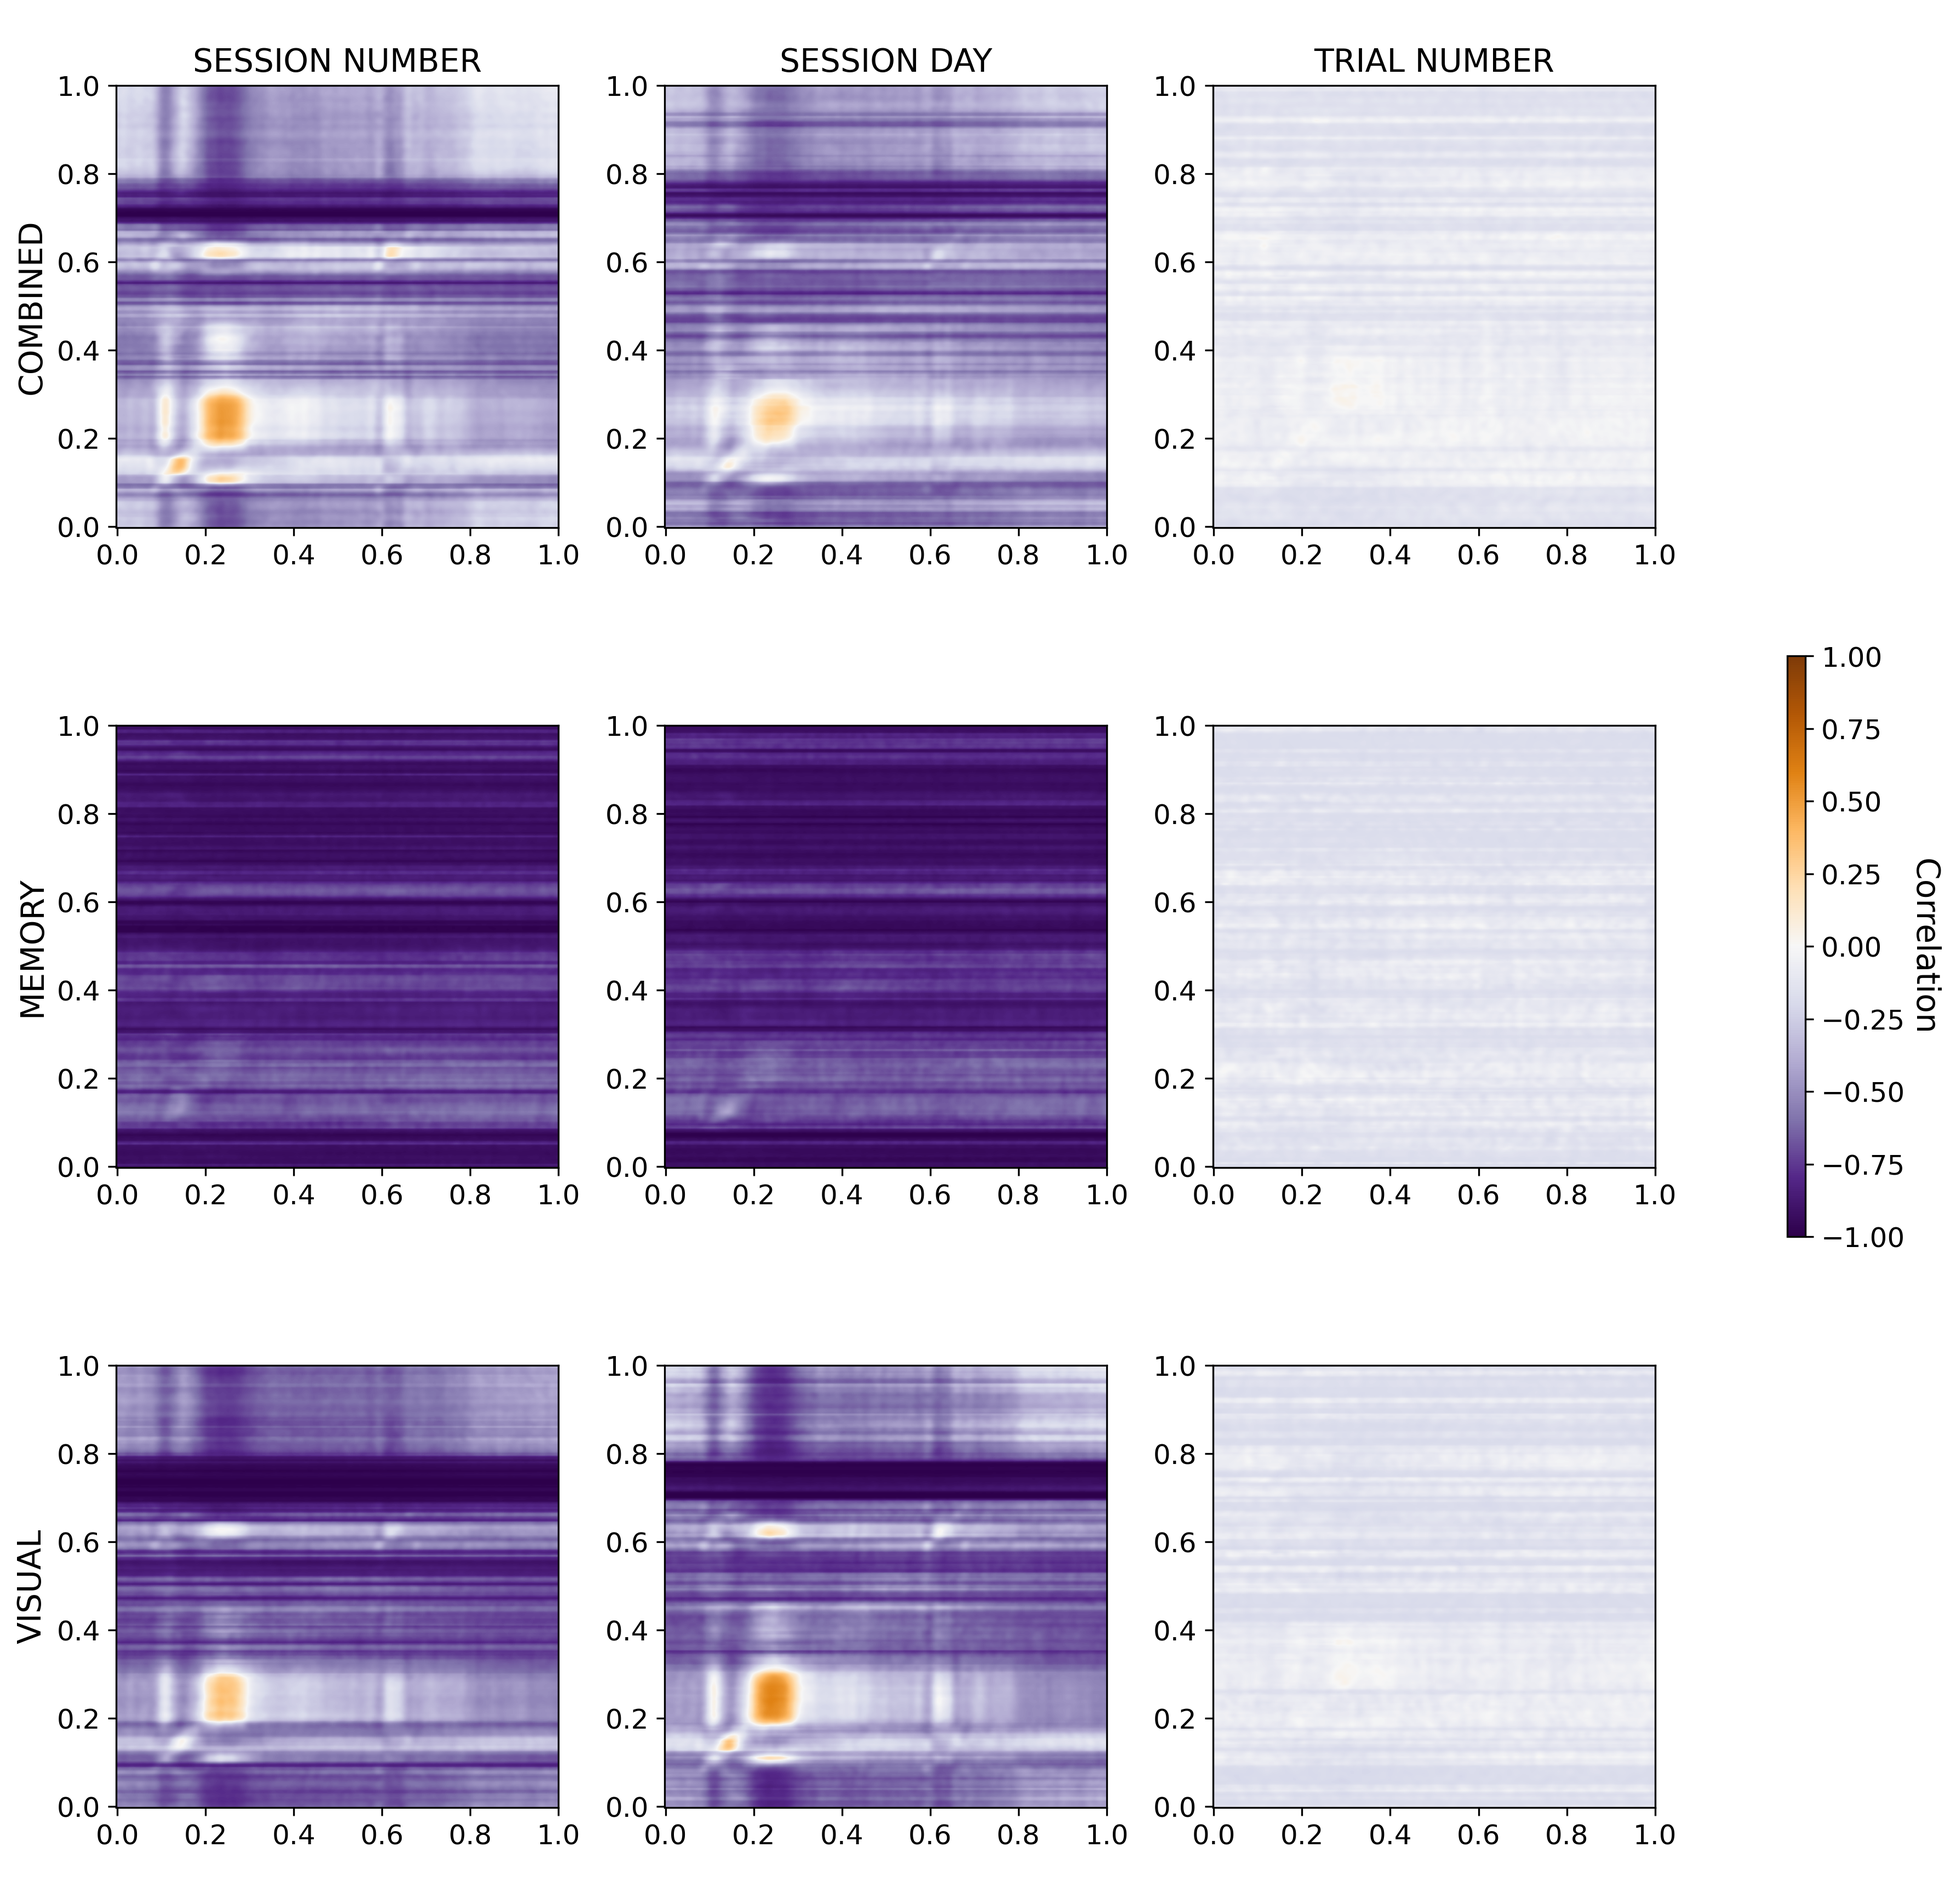
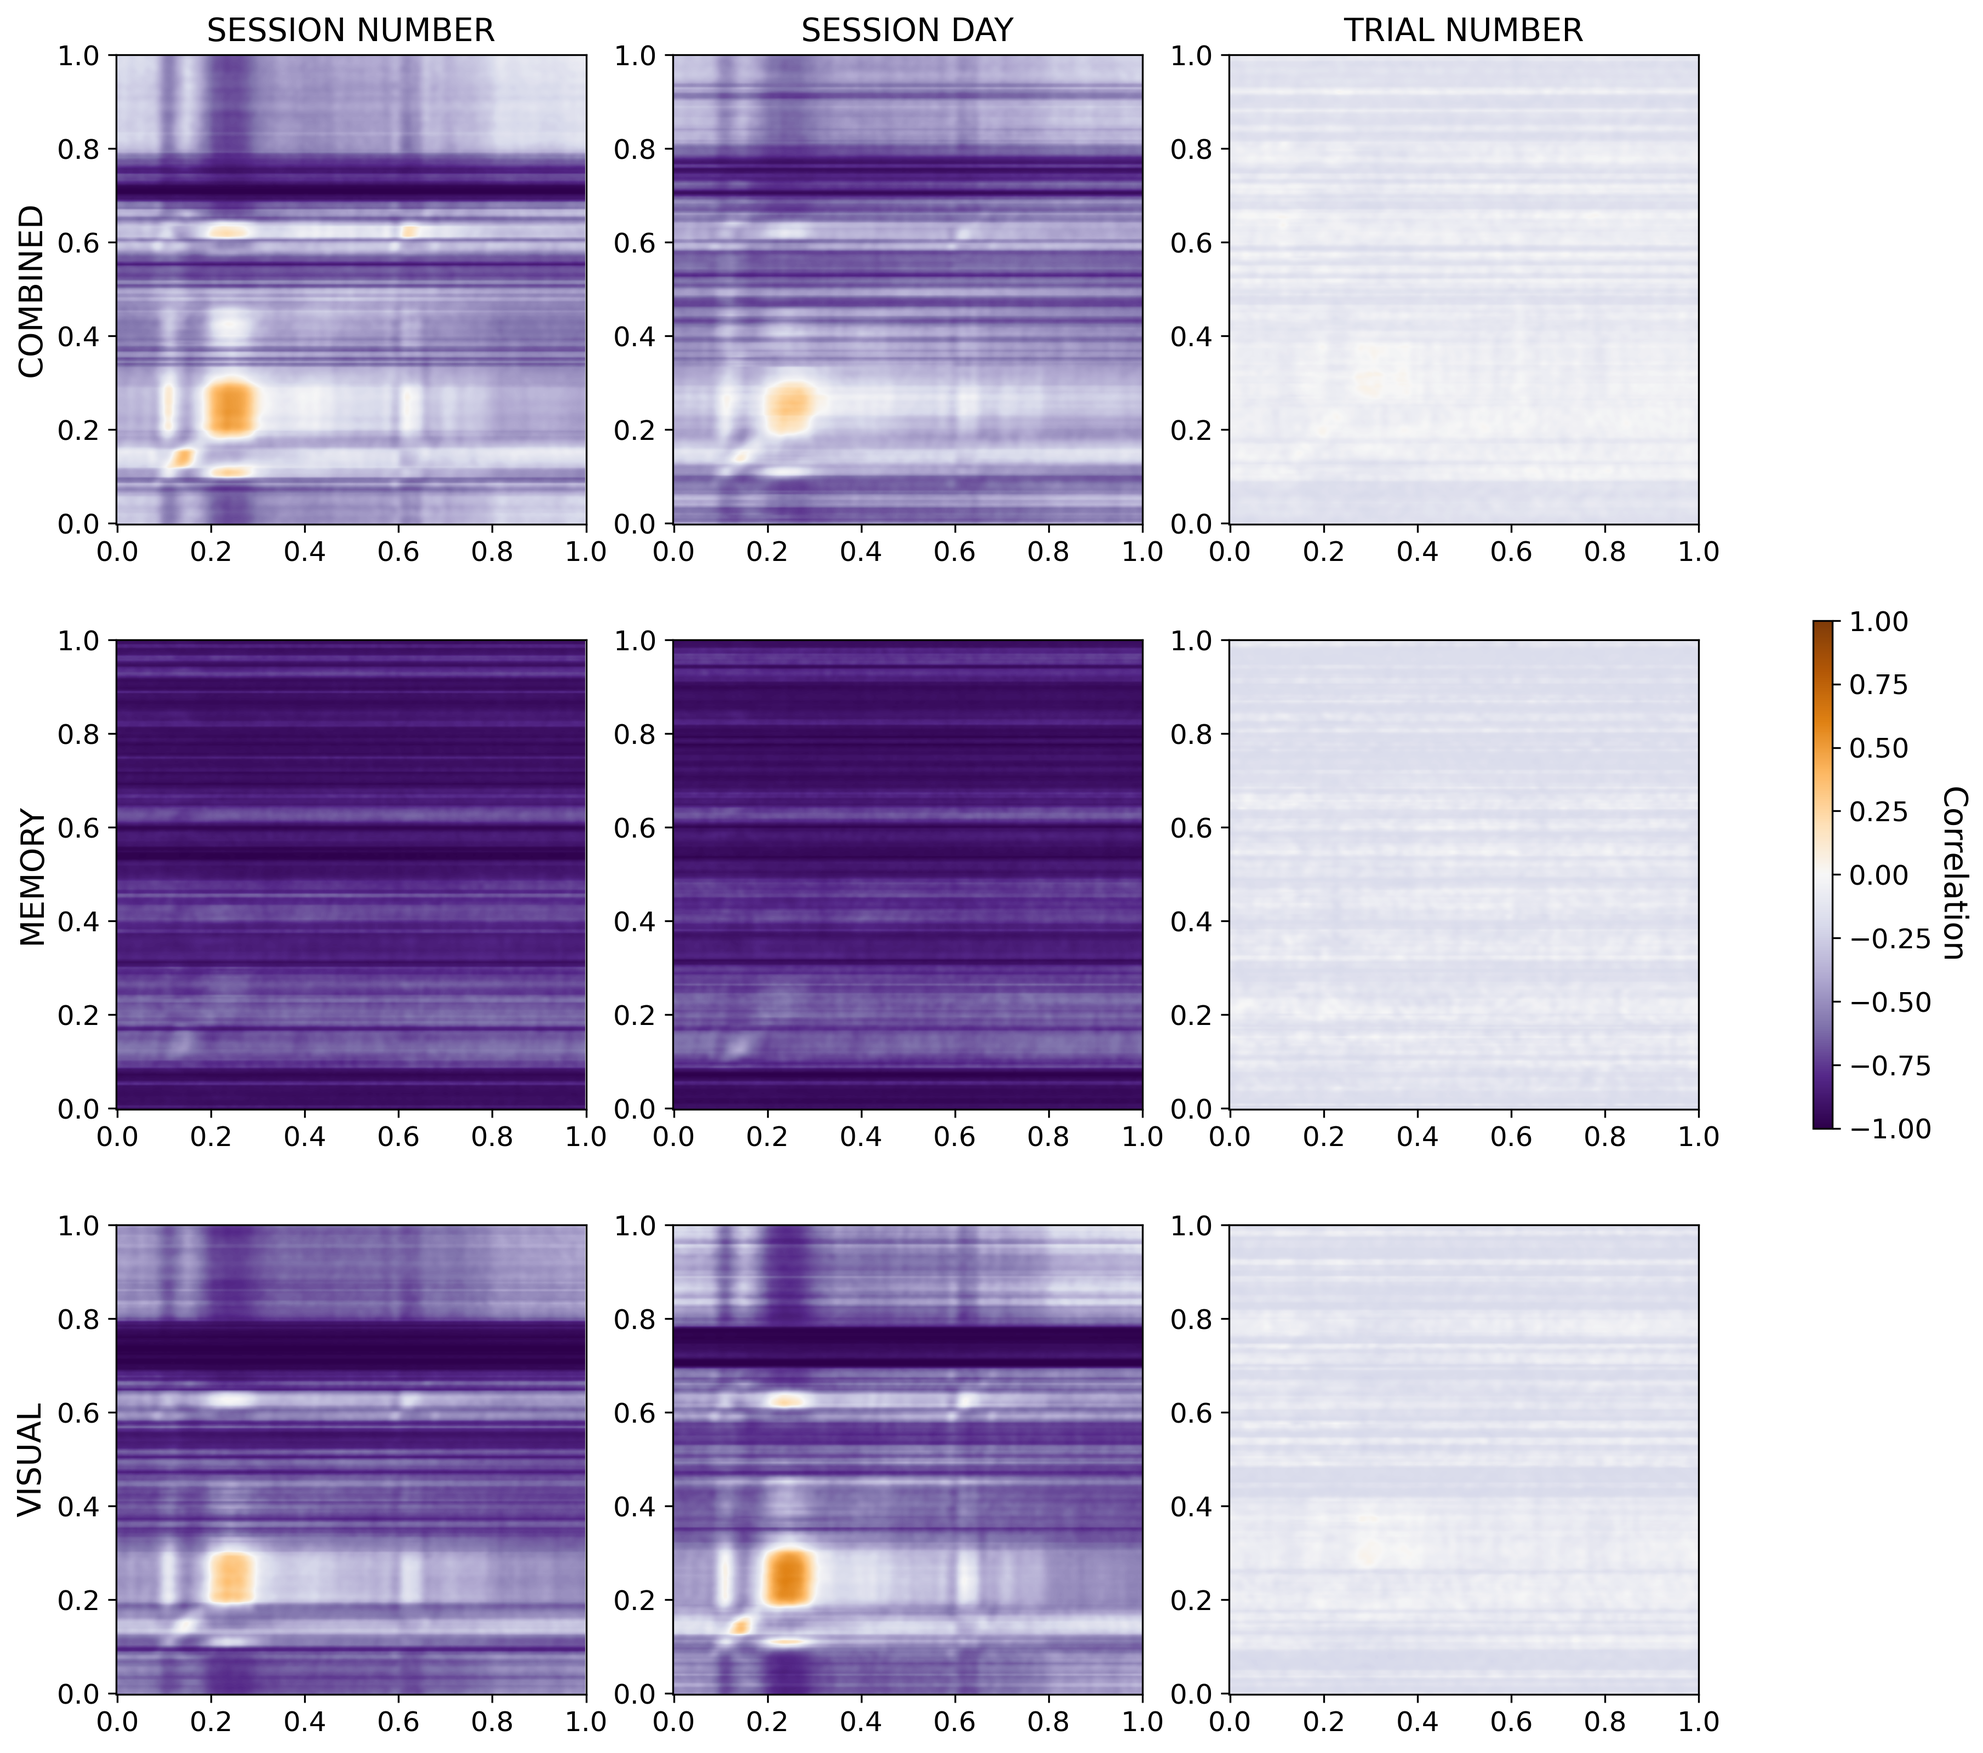
Decrease height of correlation tgm plots

diff --git a/decoding/time_elapsed/plot_results.py b/decoding/time_elapsed/plot_results.py
@@ -2,6 +2,7 @@ import numpy as np
 import matplotlib.pyplot as plt
 from pathlib import Path
 from mpl_toolkits.axes_grid1 import make_axes_locatable
+from tqdm import tqdm
 
 # local imports
 import sys
@@ -76,7 +77,7 @@ def plot_tgm(tgm_dict, measurement = "MSE", save_path = None, trial_type = None,
     if measurement == "MSE":
         fig, axs = plt.subplots(3, 3, figsize=(12, 12))
     elif measurement == "correlation":
-        fig, axs = plt.subplots(3, 4, figsize=(12, 12), gridspec_kw={'width_ratios': [1, 1, 1, 0.10]})
+        fig, axs = plt.subplots(3, 4, figsize=(12, 11), gridspec_kw={'width_ratios': [1, 1, 1, 0.10]})
 
     for key, value in tgm_dict.items():
         params = value["params"]
@@ -186,7 +187,7 @@ def prepare_dicts(file_dict, path):
     MSE_dict = {}
     correlation_dict = {}
 
-    for f, params in file_dict.items():
+    for f, params in tqdm(file_dict.items(), desc="Preparing dictionaries with correlation and MSE results"):
         animate_file, inanimate_file, animate_true_file, inanimate_true_file = return_file_paths(path, f)
 
         predicted_animate = np.load(animate_file, allow_pickle=True)
